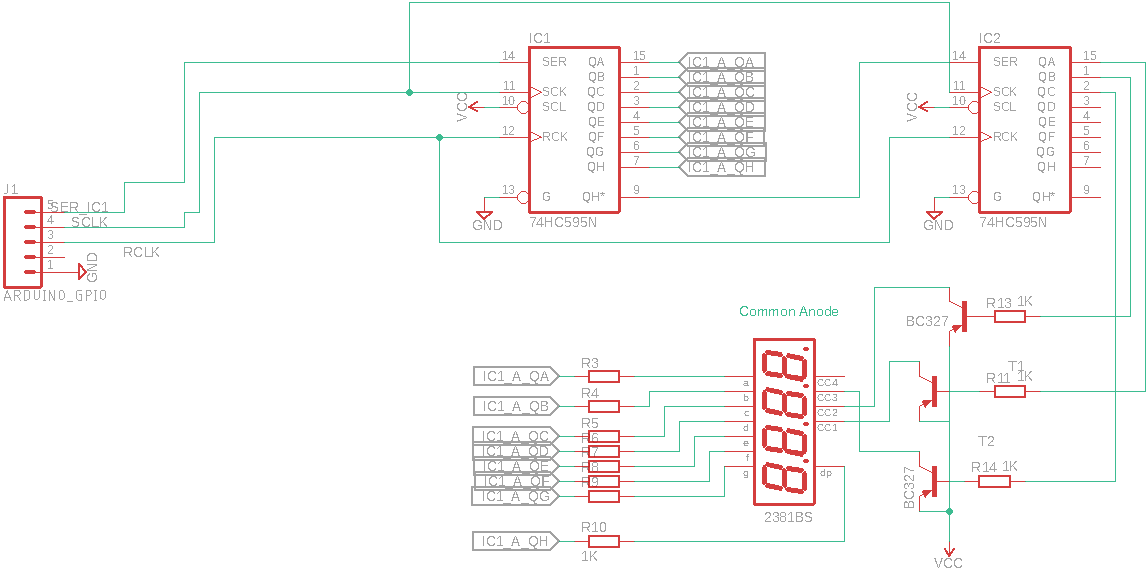
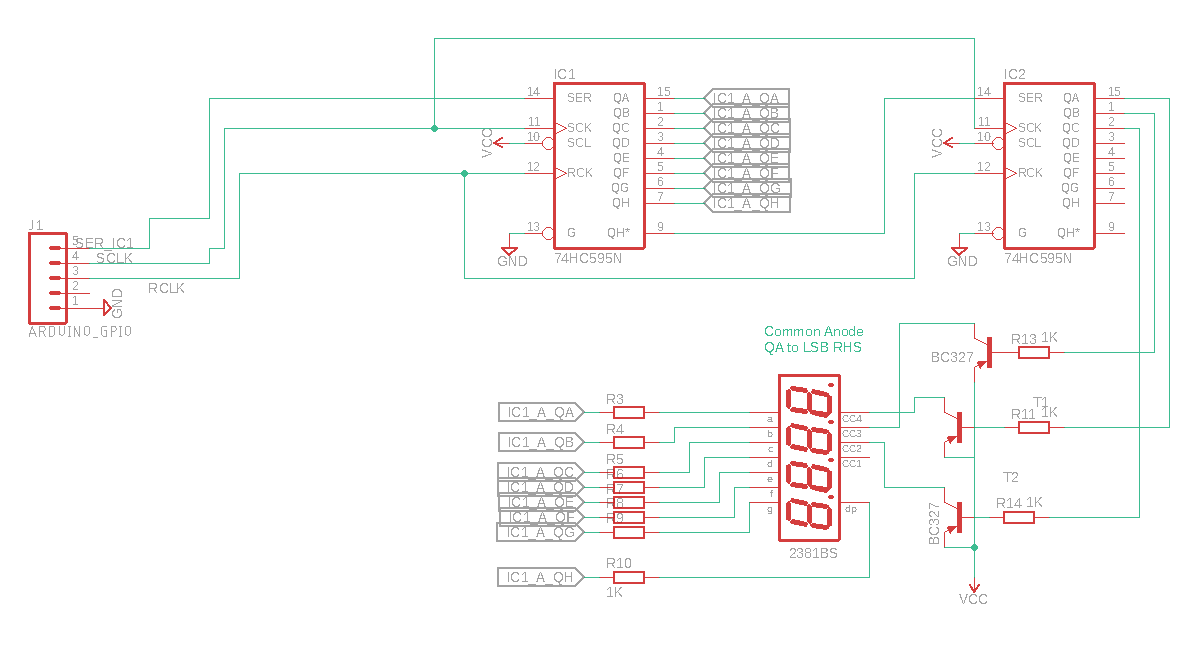
update Documents

diff --git a/README.md b/README.md
@@ -83,7 +83,7 @@ digits. Tested on a 2381AS 3 digit common anode. Will also work with common cath
 The design supports maximum eight digits, Just add more digits to rest
 of shift registers pins in order. D8D7D6D5D4D3D2D1
 For purposes of the schematic and software D1
-is the Least significant or right most Digit. 
+is the Least significant or right most Digit. LSB RHS.
 
 ![ 7seg ](https://github.com/gavinlyonsrepo/FourteenSegDisplay/blob/master/extra/image/7seg2.jpg)
 
@@ -103,7 +103,7 @@ is the Least significant or right most Digit.
 |   | QF |  | f 10 |
 |   | QG |  | g 5 |
 |   | QH |  |  DP 3 |
-|   |    | QA | D1 8 |
+|   |    | QA | D1 8 LSB RHS |
 |   |    | QB | D2 9 | 
 |   |    | QC | D3 12 |
 |   |    | QD-QH    | Extra digits as needed |
@@ -167,7 +167,7 @@ give total current per digit of 21.6mA with all segments on.
 **Connections**
 
 Note: N is number of digits (eg for eight digits (D8D7D65D4D3D2D1). 
-For purposes of the schematic and software D1 is the Least significant or right most Digit. 
+For purposes of the schematic and software D1 is the Least significant or right most Digit.  LSB RHS.
 If adding more modules or larger modules simply add another GPIO for each digit. and connect data lines
 together(a to a , b to b etc) You can add as  many digits as you want.
 
@@ -192,9 +192,8 @@ together(a to a , b to b etc) You can add as  many digits as you want.
 |   |    | QE | m 4 |
 |   |    | QF | n 5 |
 |   |    | QG | DP 8 |
-| GPIO, D1 | | | Digit 1 11 |
-| GPIO, D2 | | | Digit 2 16 |
-
+| GPIO, D1 | | | Digit 1 11 LSB RHS |
+| GPIO, D2 | | | Digit 2 16 | 
 
 ![ Model 1 sch ](https://github.com/gavinlyonsrepo/FourteenSegDisplay/blob/master/extra/image/14segModel1.png)
 
@@ -207,7 +206,7 @@ This model uses a third shift register to switch on and off digits as a result i
 
 This model supports a  maximum of 8 digits (eg for eight digits (D8D7D65D4D3D2D1). 
 For purposes of the schematic and software D1
-is the Least significant or right most Digit. 
+is the Least significant or right most Digit.  LSB RHS.
 The table below can be expanded by 6 more digits if more LED modules added
 for digits 3-8. 
 
@@ -233,9 +232,9 @@ for digits 3-8.
 |   |    | QE |     | m 4 |
 |   |    | QF |     | n 5 |
 |   |    | QG |     | DP 8 |
-|   |    |    | QA  | Digit1 11 |
-|   |    |    | QB  | Digit2 16 |
-|   |    |    | QB-QH | extra digits as needed |
+|   |    |    | QA  | Digit1 11 LSB RHS|
+|   |    |    | QB  | Digit2 16  |
+|   |    |    | QC-QH | extra digits as needed |
 
 ![ Model 2 sch ](https://github.com/gavinlyonsrepo/FourteenSegDisplay/blob/master/extra/image/14segModel2.png)
 
@@ -257,8 +256,8 @@ If user does not want decimal point support this can be disabled by setting a pa
 and user can use all 8. 
 This model supports a maximum of 7-8 digits (eg for eight digits (D8D7D65D4D3D2D1). 
 For purposes of the schematic and software D1
-is the Least significant or right most Digit. This library was tested on a
-single digit PSC05-11SURKWA common cathode. This table can be expanded to 7-8
+is the Least significant or right most Digit.  LSB RHS.
+This library was tested on a single digit PSC05-11SURKWA common cathode. This table can be expanded to 7-8
 digits.
 
 **Connections**
@@ -286,10 +285,9 @@ digits.
 |   |    | QF |     | s 14 |
 |   |    | QG |     | t 7 |
 |   |    | QH |     | u 5 |
-|   |    |    | QA  | Digit1 11 thru a transistor npn switch|
+|   |    |    | QA  | Digit1 11 LSB RHS |
 |   |    |    | QB-QG  | extra digits as needed |
 |   |    |    | QH  | Decimal point 12 |
 
 ![ layout ](https://github.com/gavinlyonsrepo/FourteenSegDisplay/blob/master/extra/image/16seg.png)
 
-EOF
